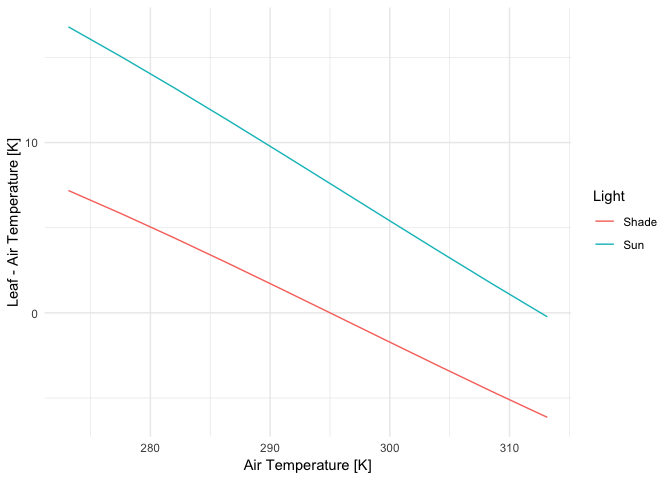
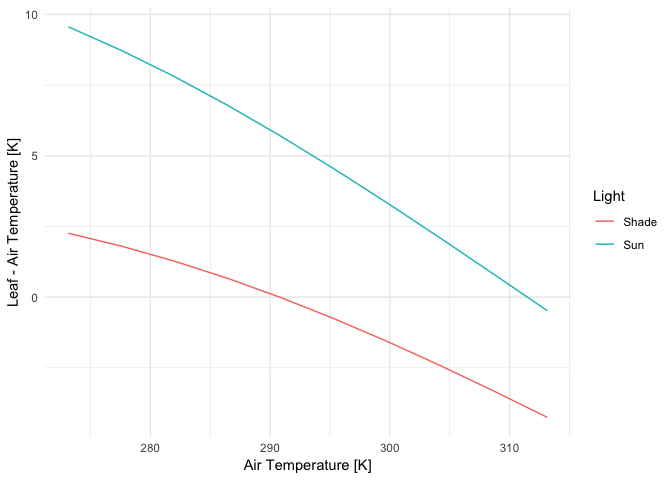
v 0.0.8 - added endogenous calculation of absorbed infrared raditation

diff --git a/README.md b/README.md
@@ -98,14 +98,14 @@ temperature in a single leaf using the `make_*()` functions and
 </thead>
 <tbody>
 <tr class="odd">
-<td align="right">304.3652 [K]</td>
-<td align="right">-1e-07</td>
+<td align="right">301.9299 [K]</td>
 <td align="right">0</td>
-<td align="right">1600.25 [W/m^2]</td>
-<td align="right">943.9849 [W/m^2]</td>
-<td align="right">203.6401 [J/m^2/s]</td>
-<td align="right">452.625 [W/m^2]</td>
-<td align="right">0.01035237 [mol/m^2/s]</td>
+<td align="right">0</td>
+<td align="right">1403.813 [W/m^2]</td>
+<td align="right">914.1327 [W/m^2]</td>
+<td align="right">124.1127 [J/m^2/s]</td>
+<td align="right">365.5674 [W/m^2]</td>
+<td align="right">0.008341162 [mol/m^2/s]</td>
 </tr>
 </tbody>
 </table>
@@ -162,14 +162,14 @@ which to solve for leaf temperature.
 </thead>
 <tbody>
 <tr class="odd">
-<td align="right">305.2116 [K]</td>
+<td align="right">302.6489 [K]</td>
 <td align="right">0</td>
 <td align="right">0</td>
-<td align="right">1600.25 [W/m^2]</td>
-<td align="right">954.5288 [W/m^2]</td>
-<td align="right">231.1993 [J/m^2/s]</td>
-<td align="right">414.5218 [W/m^2]</td>
-<td align="right">0.009488798 [mol/m^2/s]</td>
+<td align="right">1403.813 [W/m^2]</td>
+<td align="right">922.8713 [W/m^2]</td>
+<td align="right">147.6273 [J/m^2/s]</td>
+<td align="right">333.3142 [W/m^2]</td>
+<td align="right">0.007610625 [mol/m^2/s]</td>
 </tr>
 </tbody>
 </table>
@@ -225,22 +225,22 @@ leaf or environmental parameters and `tleaves` uses the
 <tr class="odd">
 <td align="right">293.15 [K]</td>
 <td align="right">2 [umol/m^2/Pa/s]</td>
-<td align="right">304.8484</td>
+<td align="right">300.8826</td>
 </tr>
 <tr class="even">
 <td align="right">298.15 [K]</td>
 <td align="right">2 [umol/m^2/Pa/s]</td>
-<td align="right">307.8130</td>
+<td align="right">304.8308</td>
 </tr>
 <tr class="odd">
 <td align="right">293.15 [K]</td>
 <td align="right">4 [umol/m^2/Pa/s]</td>
-<td align="right">302.3785</td>
+<td align="right">298.9259</td>
 </tr>
 <tr class="even">
 <td align="right">298.15 [K]</td>
 <td align="right">4 [umol/m^2/Pa/s]</td>
-<td align="right">305.2116</td>
+<td align="right">302.6489</td>
 </tr>
 </tbody>
 </table>
